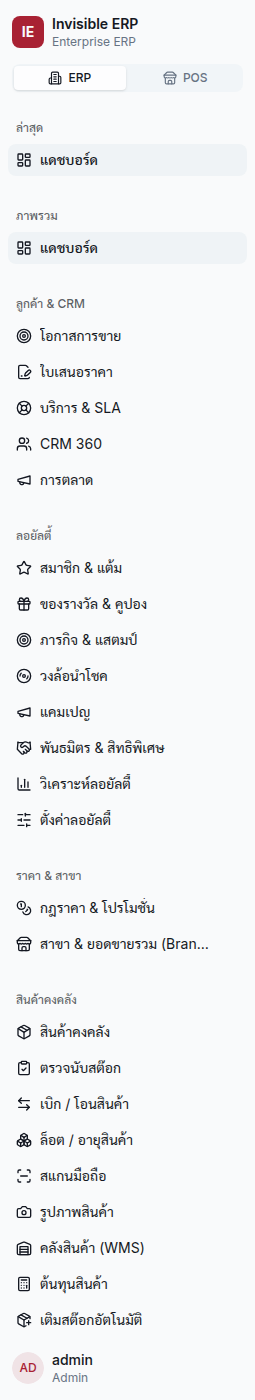
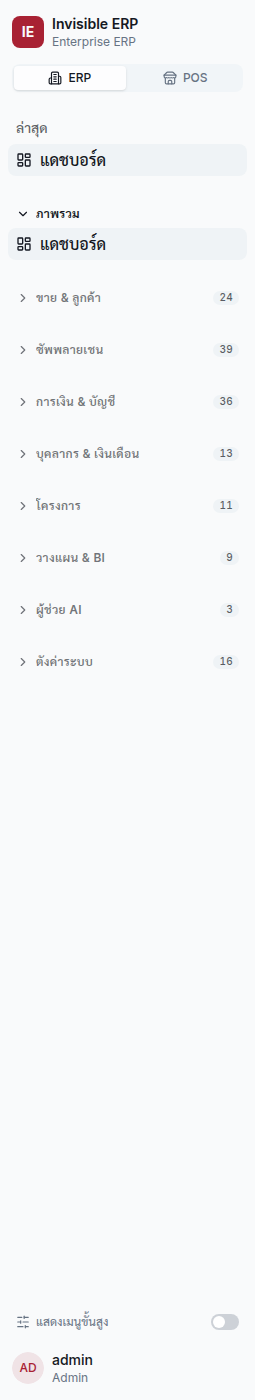
fix(web/e2e): expand collapsed domains in sidebar capture spec; refresh manual images
CI web-e2e ran e2e/sidebar.capture.spec.ts (the chromium project's own testIgnore
overrides the top-level *.capture.spec.ts ignore, so capture specs DO run in CI)
and it failed: it stars /inventory + /finance and clicks the ปรับแต่ง sub-section,
all now inside collapsed / advanced-gated domains after the rev-2 restructure.

- sidebar.capture.spec.ts: add openDomain()/enableAdvanced() helpers; expand
  ซัพพลายเชน + การเงิน & บัญชี before starring, and enable advanced + expand
  ตั้งค่าระบบ before clicking ปรับแต่ง.
- Regenerate the three affected user-manual screenshots to show the new
  collapsible sidebar (workspace-switcher.png unchanged).

Verified locally with the pinned Chromium: chromium project (desktop specs +
capture) all green; mobile-iphone project 23/23; workspace-split 13/13.

Claude-Session: https://claude.ai/code/session_015AhqiuNp85RxTLekhLg4QC

diff --git a/apps/web/e2e/sidebar.capture.spec.ts b/apps/web/e2e/sidebar.capture.spec.ts
@@ -30,6 +30,17 @@ async function boot(page: Page) {
 
 const sidebar = (page: Page) => page.locator('[data-slot="sidebar-inner"]').first();
 const header = (page: Page) => page.locator('[data-sidebar="header"]').first();
+
+// Top-level domains are collapsible and default to only-active-open (docs/15 rev 2/3), so an item in a
+// non-active domain is hidden until its header is expanded. Advanced areas need the "show advanced" toggle.
+async function openDomain(page: Page, name: string) {
+  const btn = page.getByRole('button', { name, exact: true });
+  if ((await btn.getAttribute('aria-expanded')) === 'false') await btn.click();
+}
+async function enableAdvanced(page: Page) {
+  const t = page.getByRole('button', { name: 'แสดงเมนูขั้นสูง', exact: true });
+  if ((await t.getAttribute('aria-pressed')) !== 'true') await t.click();
+}
 const scrollSidebar = (page: Page, to: 'top' | 'bottom') =>
   page.locator('[data-slot="sidebar-content"]').first().evaluate((el, t) => {
     el.scrollTo({ top: t === 'top' ? 0 : el.scrollHeight });
@@ -49,6 +60,9 @@ test('capture sidebar imagery for the user manual', async ({ page }) => {
   await sidebar(page).screenshot({ path: `${OUT}/sidebar-overview.png` });
 
   // 3) Favourites: star two items so the รายการโปรด group appears, then scroll back to the top so it shows.
+  //    Open each item's domain first (they default collapsed): /inventory → ซัพพลายเชน, /finance → การเงิน & บัญชี.
+  await openDomain(page, 'ซัพพลายเชน');
+  await openDomain(page, 'การเงิน & บัญชี');
   for (const href of ['/inventory', '/finance']) {
     await page
       .locator('li[data-sidebar="menu-item"]', { has: page.locator(`a[href="${href}"]`) })
@@ -59,8 +73,10 @@ test('capture sidebar imagery for the user manual', async ({ page }) => {
   await scrollSidebar(page, 'top');
   await sidebar(page).screenshot({ path: `${OUT}/sidebar-favourites.png` });
 
-  // 4) Collapsible Settings: expand one advanced sub-section (ปรับแต่ง) and leave another collapsed
-  //    (เชื่อมต่อ & ขยาย), then scroll to the ตั้งค่าระบบ group at the bottom.
+  // 4) Collapsible Settings: reveal advanced areas, expand the ตั้งค่าระบบ domain, then expand one advanced
+  //    sub-section (ปรับแต่ง) and leave another collapsed (เชื่อมต่อ & ขยาย); scroll to the group at the bottom.
+  await enableAdvanced(page);
+  await openDomain(page, 'ตั้งค่าระบบ');
   await page.getByRole('button', { name: 'ปรับแต่ง', exact: true }).click();
   await scrollSidebar(page, 'bottom');
   await sidebar(page).screenshot({ path: `${OUT}/sidebar-settings.png` });